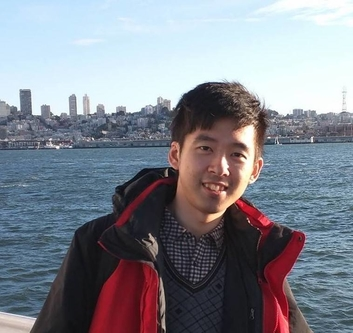
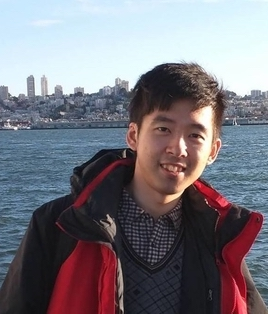
test fixed height

diff --git a/index.html b/index.html
@@ -71,20 +71,10 @@
 									<div class="posts">
 										<article>
 											<a class="image"><img src="images/xiangyang.jpg" alt="" /></a>
-											<h3>Xiangyang Du</h3>Skills
+											<h3>Xiangyang Du</h3>
 											<ul>
 												<li>How to coach your children to get accepted into Harvard, Stanford, Princeton, Yale, & MIT</li>
 											</ul>
-										</article>
-										<article>
-											<a class="image"><img src="images/fanjie.jpg" alt="" /></a>
-											<h3>Fanjie Xiao</h3>
-											Skills
-											<ul>
-													<li>Working as a Software Engineer at Dropbox</li>
-													<li>Interviewing at top US tech companies</li>
-													<li>Studying abroad at a top US university</li>
-												</ul>
 										</article>
 										<article>
 											<a class="image"><img src="images/alice.jpg" alt="" /></a>
@@ -101,6 +91,15 @@
 											<ul>
 													<li>Working as a Software Engineer at Google</li>
 													<li>Interviewing at top US tech companies</li>
+												</ul>
+										</article>
+										<article>
+											<a class="image"><img src="images/fanjie.jpg" alt="" /></a>
+											<h3>Fanjie Xiao</h3>
+											<ul>
+													<li>Working as a Software Engineer at Dropbox</li>
+													<li>Interviewing at top US tech companies</li>
+													<li>Studying abroad at a top US university</li>
 												</ul>
 										</article>
 										<article>

diff --git a/assets/css/main.css b/assets/css/main.css
@@ -3348,6 +3348,7 @@ input, select, textarea {
 				.posts article .image img {
 					display: block;
 					width: 100%;
+					height: 18em;
 				}
 
 		@media screen and (min-width: 1681px) {
